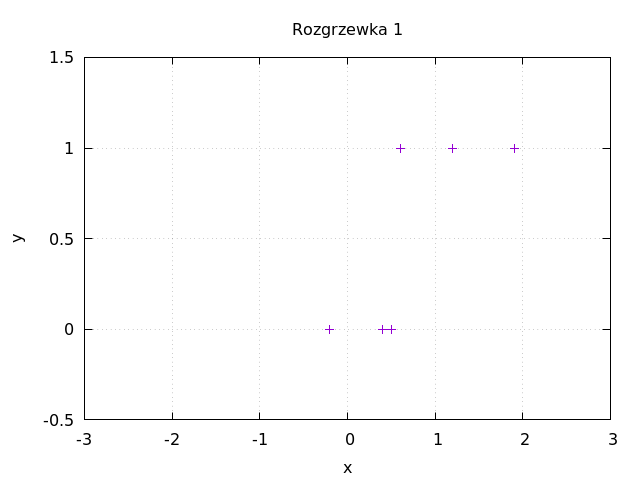
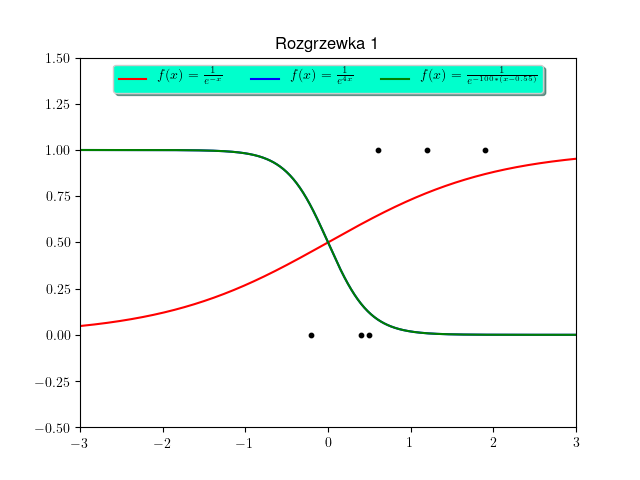
solution in python3 with matplotlib and numpy

diff --git a/Rozgrzewka_1/Rozgrzewka.py b/Rozgrzewka_1/Rozgrzewka.py
@@ -1,0 +1,29 @@
+import numpy as np
+import matplotlib.pyplot as plt
+from matplotlib import rc
+#tex set up
+rc('font',**{'family':'sans-serif','sans-serif':['Helvetica']})
+rc('text', usetex=True)
+
+#range
+plt.xlim([-3,3])
+plt.ylim([-0.5,1.5])
+#points
+PointsX=[-0.2, 0.4, 0.6, 1.2, 1.9, 0.5]
+PointsY=[0, 0, 1, 1, 1, 0]
+plt.scatter(PointsX,PointsY,color='black', s=10)
+plt.title("Rozgrzewka 1")
+x = np.arange(-3, 3, 0.01);
+y1 = 1/(1+np.exp(-x))
+y2 = 1/(1+np.exp(4*x))
+y3 = 1/(1+np.exp(-100*(x-0.55)))
+plt.plot(x,y1,color='red', label=r"$f(x)=\frac{1}{e^{-x}}$")
+plt.plot(x,y2,color='blue',label=r"$f(x)=\frac{1}{e^{4x}}$")
+plt.plot(x,y2,color='green',label=r"$f(x)=\frac{1}{e^{-100*(x-0.55)}}$")
+
+legend = plt.legend(loc='upper center',
+          ncol=3, fancybox=True, shadow=True)
+
+# Put a nicer background color on the legend.
+legend.get_frame().set_facecolor('#00FFCC')
+plt.savefig("wykres.png")
